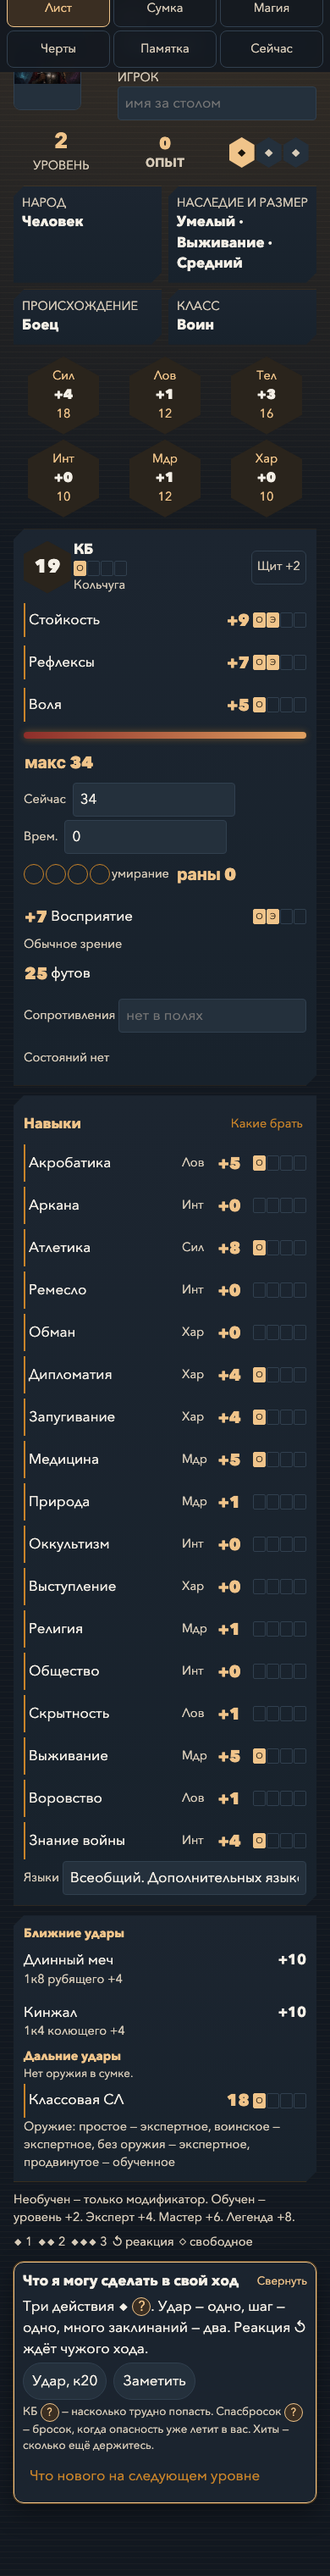
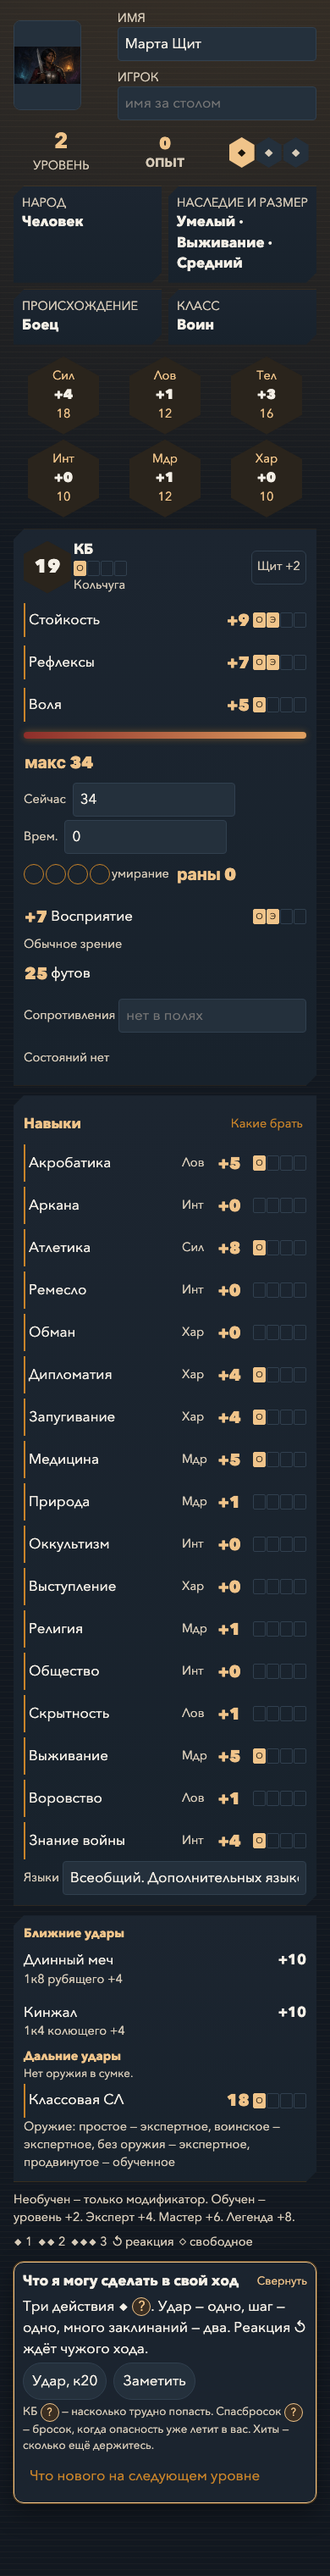
Сохранить полный снимок листа без наложения закреплённой шапки

Changed region(s): [[0.0, 0.0, 1.0, 0.0312]]

diff --git a/docs/review/wizard/STATUS.md b/docs/review/wizard/STATUS.md
@@ -17,6 +17,7 @@
 - `npm run build`: успешно. Существующее предупреждение о размере общего пакета данных не устранялось в этой задаче.
 - Браузер: выбор и отмена навыка, совет и отмена при повышении с 1 на 2, сохранение после перезагрузки, отсутствие дубликатов; отдельно выбор и отмена совета в правилах «Подземелья и драконы».
 - Лист: ширины 390 / 768 / 1366, четыре оформления; без горизонтального переполнения и пересечения разделов.
-- Снимки: список шагов, навыки с советами, повышение с 1 на 2 и готовый лист на ширине 390. Длинные снимки отдельных разделов сняты без фиксированной нижней навигации, чтобы она не перекрывала середину длинного изображения; обычные снимки экрана сохраняют её.
+- Автоматическая проверка GitHub для коммита с кодом `37a27a2`: успешно.
+- Снимки: список шагов, навыки с советами, повышение с 1 на 2 и готовый лист на ширине 390. Длинные снимки отдельных разделов сняты без закреплённых верхней и нижней панелей, чтобы они не перекрывали длинное изображение; обычные снимки экрана сохраняют эти панели.
 
 Классы правил 2014 года, магус и заклинания посвящения поборника в этой задаче не разрабатывались.
